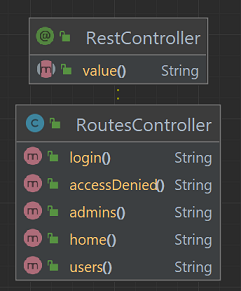
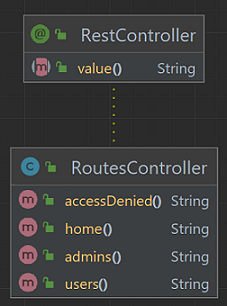
SecurityConfig - Added

diff --git a/src/main/java/com/app/inmemoryauthenticator/security/SecurityConfig.java b/src/main/java/com/app/inmemoryauthenticator/security/SecurityConfig.java
@@ -1,0 +1,78 @@
+package com.app.inmemoryauthenticator.security;
+
+import org.springframework.context.annotation.Bean;
+import org.springframework.context.annotation.Configuration;
+import org.springframework.security.config.annotation.web.configuration.EnableWebSecurity;
+import org.springframework.security.authentication.AuthenticationManager;
+import org.springframework.security.authentication.ProviderManager;
+import org.springframework.security.authentication.dao.DaoAuthenticationProvider;
+import org.springframework.security.config.Customizer;
+import org.springframework.security.config.annotation.web.builders.HttpSecurity;
+import org.springframework.security.config.annotation.web.configurers.AbstractHttpConfigurer;
+import org.springframework.security.config.http.SessionCreationPolicy;
+import org.springframework.security.core.userdetails.User;
+import org.springframework.security.core.userdetails.UserDetails;
+import org.springframework.security.core.userdetails.UserDetailsService;
+import org.springframework.security.crypto.factory.PasswordEncoderFactories;
+import org.springframework.security.crypto.password.PasswordEncoder;
+import org.springframework.security.provisioning.InMemoryUserDetailsManager;
+import org.springframework.security.web.SecurityFilterChain;
+
+@Configuration
+@EnableWebSecurity
+public class SecurityConfig {
+
+    @Bean
+    public SecurityFilterChain securityFilterChain(HttpSecurity http) throws Exception {
+        http
+                .authorizeHttpRequests((authorize) -> authorize
+                        .requestMatchers("/").permitAll()
+                        .requestMatchers("/users").hasAnyRole("USER", "ADMIN")
+                        .requestMatchers("/admins").hasRole("ADMIN")
+                        .anyRequest().authenticated()
+                ).exceptionHandling(
+                        ex -> ex.accessDeniedPage("/accessDenied")
+                ).httpBasic(Customizer.withDefaults())
+                .formLogin(AbstractHttpConfigurer::disable)
+                .logout(AbstractHttpConfigurer::disable)
+                .sessionManagement(session -> session.sessionCreationPolicy(SessionCreationPolicy.STATELESS)
+                );
+
+        return http.build();
+    }
+
+    @Bean
+    public UserDetailsService userDetailsService() {
+        UserDetails user = User
+                .withDefaultPasswordEncoder()
+                .username("usuario")
+                .password("senha")
+                .roles("USER")
+                .build();
+
+        UserDetails admin = User
+                .withDefaultPasswordEncoder()
+                .username("administrador")
+                .password("codigo")
+                .roles("ADMIN")
+                .build();
+
+        return new InMemoryUserDetailsManager(user, admin);
+    }
+
+    @Bean
+    public PasswordEncoder passwordEncoder() {
+        return PasswordEncoderFactories.createDelegatingPasswordEncoder();
+    }
+
+    @Bean
+    public AuthenticationManager authenticationManager(UserDetailsService UserDetailsService,
+                                                       PasswordEncoder passwordEncoder){
+        DaoAuthenticationProvider daoAuthenticationProvider = new DaoAuthenticationProvider();
+        daoAuthenticationProvider.setUserDetailsService(UserDetailsService);
+        daoAuthenticationProvider.setPasswordEncoder(passwordEncoder);
+
+        return new ProviderManager(daoAuthenticationProvider);
+    }
+
+}

diff --git a/src/main/java/com/app/inmemoryauthenticator/controllers/RoutesController.java b/src/main/java/com/app/inmemoryauthenticator/controllers/RoutesController.java
@@ -1,7 +1,6 @@
 package com.app.inmemoryauthenticator.controllers;
 
 import org.springframework.web.bind.annotation.GetMapping;
-import org.springframework.web.bind.annotation.PostMapping;
 import org.springframework.web.bind.annotation.RestController;
 
 @RestController
@@ -10,11 +9,6 @@ public class RoutesController {
     @GetMapping("/")
     public String home(){
         return "Home Page - Allowed for everyone";
-    }
-
-    @PostMapping("/login")
-    public String login(){
-        return "Login Page - Allowed for everyone";
     }
 
     @GetMapping("/users")
@@ -29,7 +23,7 @@ public class RoutesController {
 
     @GetMapping("/accessDenied")
     public String accessDenied(){
-        return "Access denied Page - Allowed for all";
+        return "Access denied Page";
     }
 
 }

diff --git a/LEIAME.md b/LEIAME.md
@@ -1,6 +1,17 @@
 # Spring Security - Autenticador em memória
 Projeto em Java com Spring e Gradle para autenticação básica em memória com autorização para rotas.
 
+Diagrama de classes UML:
+
+![Image-04-InMemoryAuthenticator](images/Img-04-UML-Class-InMemoryAuthenticator.png)
+
+Rotas:
+- `/`
+- `/users` 
+- `/admins`
+- `/accessDenied`
+
+
 ## Passos
 Os passos da implementação do projeto:
 
@@ -12,11 +23,24 @@ Os passos da implementação do projeto:
 ![Image-01-IntelliJ](images/Img-01-IntelliJ.png)
 
 2. Criar a classe `RoutesController`:
+- no pacote `controllers`;
 - com a anotação `@RestController`;
-- com a rota `/login` do tipo POST;
-- com as rotas `/, /users, /admins, /accessDenied` do tipo GET.
+- com as rotas `/`, `/users`, `/admins`, `/accessDenied` do tipo GET.
 
 ![Image-02-RoutesController](images/Img-02-UML-Class-RoutesController.png)
+
+3. Criar a classe `SecurityConfig`:
+- no pacote `security`;
+- com as anotações `@Configuration` e `@EnableWebSecurity`;
+- com todos os métodos anotados com `@Bean`;
+- com os seguintes métodos públicos:
+  - `SecurityFilterChain securityFilterChain(HttpSecurity http)` para configurar a autorização de cada rota;
+  - `UserDetailsService userDetailsService()` para criar usuários;
+  - `PasswordEncoder passwordEncoder()` para retornar uma instância de `BCryptPasswordEncoder`;
+  - `AuthenticationManager authenticationManager(UserDetailsService UserDetailsService,
+    PasswordEncoder passwordEncoder)` para personalizar o autenticador com passwordEncoder;
+
+![Image-03-SecurityConfig](images/Img-03-UML-Class-SecurityConfig.png)
 
 
 ## Referências

diff --git a/README.md b/README.md
@@ -1,6 +1,17 @@
 # Spring Security - In-memory Authenticator
 Java project with Spring and Gradle for basic in-memory authentication with authorization for routes.
 
+UML Class Diagram:
+
+![Image-04-InMemoryAuthenticator](images/Img-04-UML-Class-InMemoryAuthenticator.png)
+
+Routes:
+- `/`
+- `/users`
+- `/admins`
+- `/accessDenied`
+
+
 ## Steps
 The steps of project implementation:
 
@@ -12,11 +23,24 @@ The steps of project implementation:
 ![Image-01-IntelliJ](images/Img-01-IntelliJ.png)
 
 2. Create the `RoutesController` class:
+- in the `controllers` package;
 - with the annotation `@RestController`;
-- with the `/login` route of type POST;
-- with the routes `/, /users, /admins, /accessDenied` of type GET.
+- with the routes `/`, `/users`, `/admins`, `/accessDenied` of type GET.
 
 ![Image-02-RoutesController](images/Img-02-UML-Class-RoutesController.png)
+
+3. Create the `SecurityConfig` class:
+- in the `security` package;
+- with the annotations `@Configuration` and `@EnableWebSecurity`;
+- with all methods annotated with `@Bean`;
+- with the following public methods:
+    - `SecurityFilterChain securityFilterChain(HttpSecurity http)` to configure authorization for each route;
+    - `UserDetailsService userDetailsService()` to create users;
+    - `PasswordEncoder passwordEncoder()` to return an instance of `BCryptPasswordEncoder`;
+    - `AuthenticationManager authenticationManager(UserDetailsService UserDetailsService,
+      PasswordEncoder passwordEncoder)` to customize the authenticator with passwordEncoder;
+
+![Image-03-SecurityConfig](images/Img-03-UML-Class-SecurityConfig.png)
 
 
 ## References
